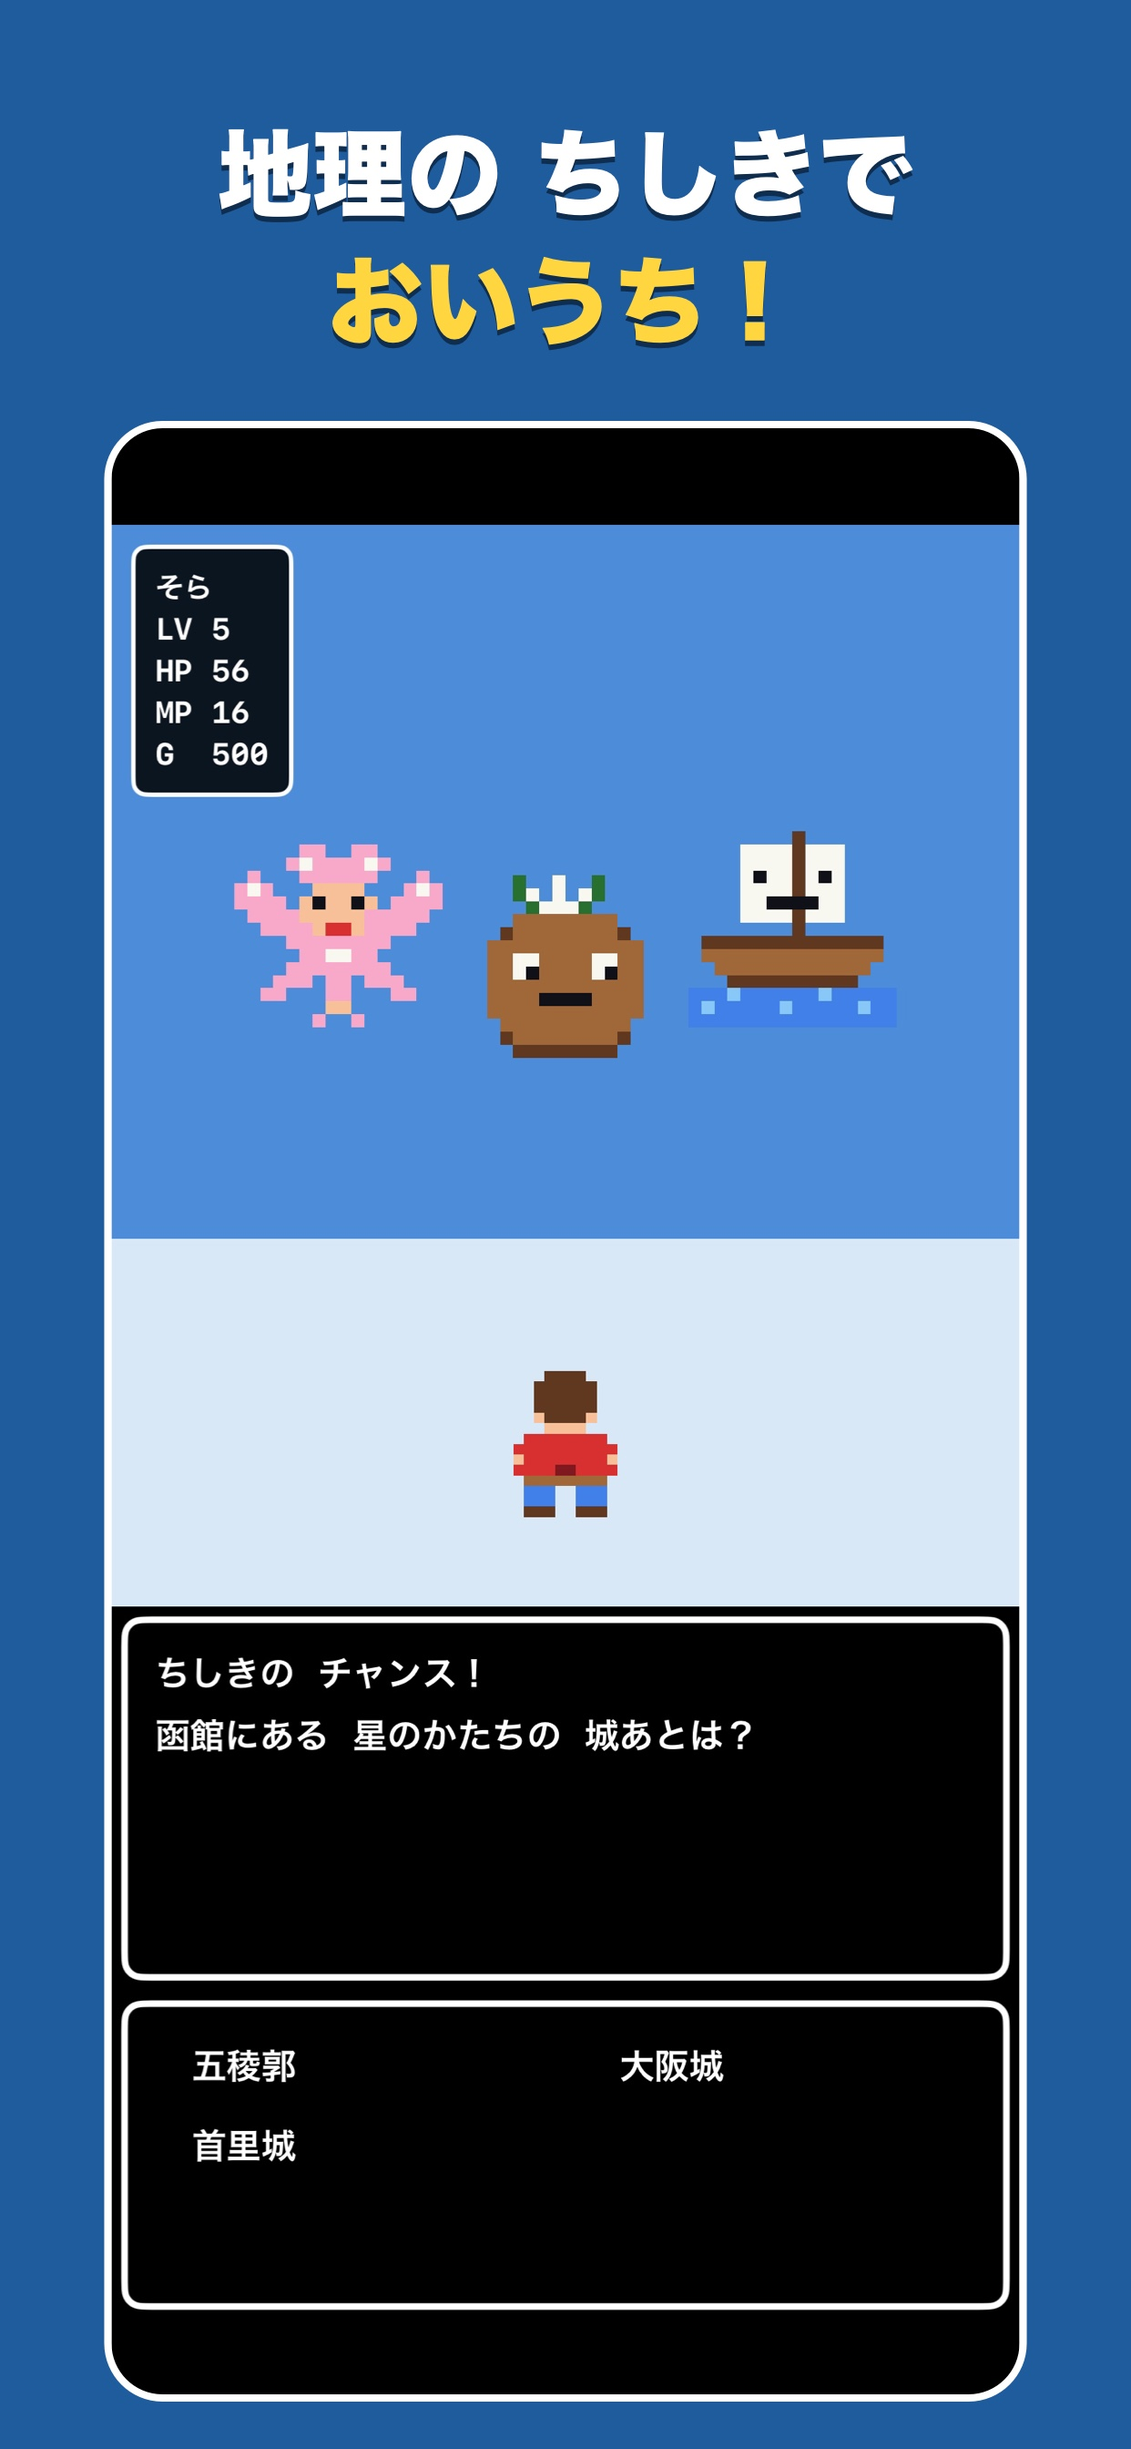
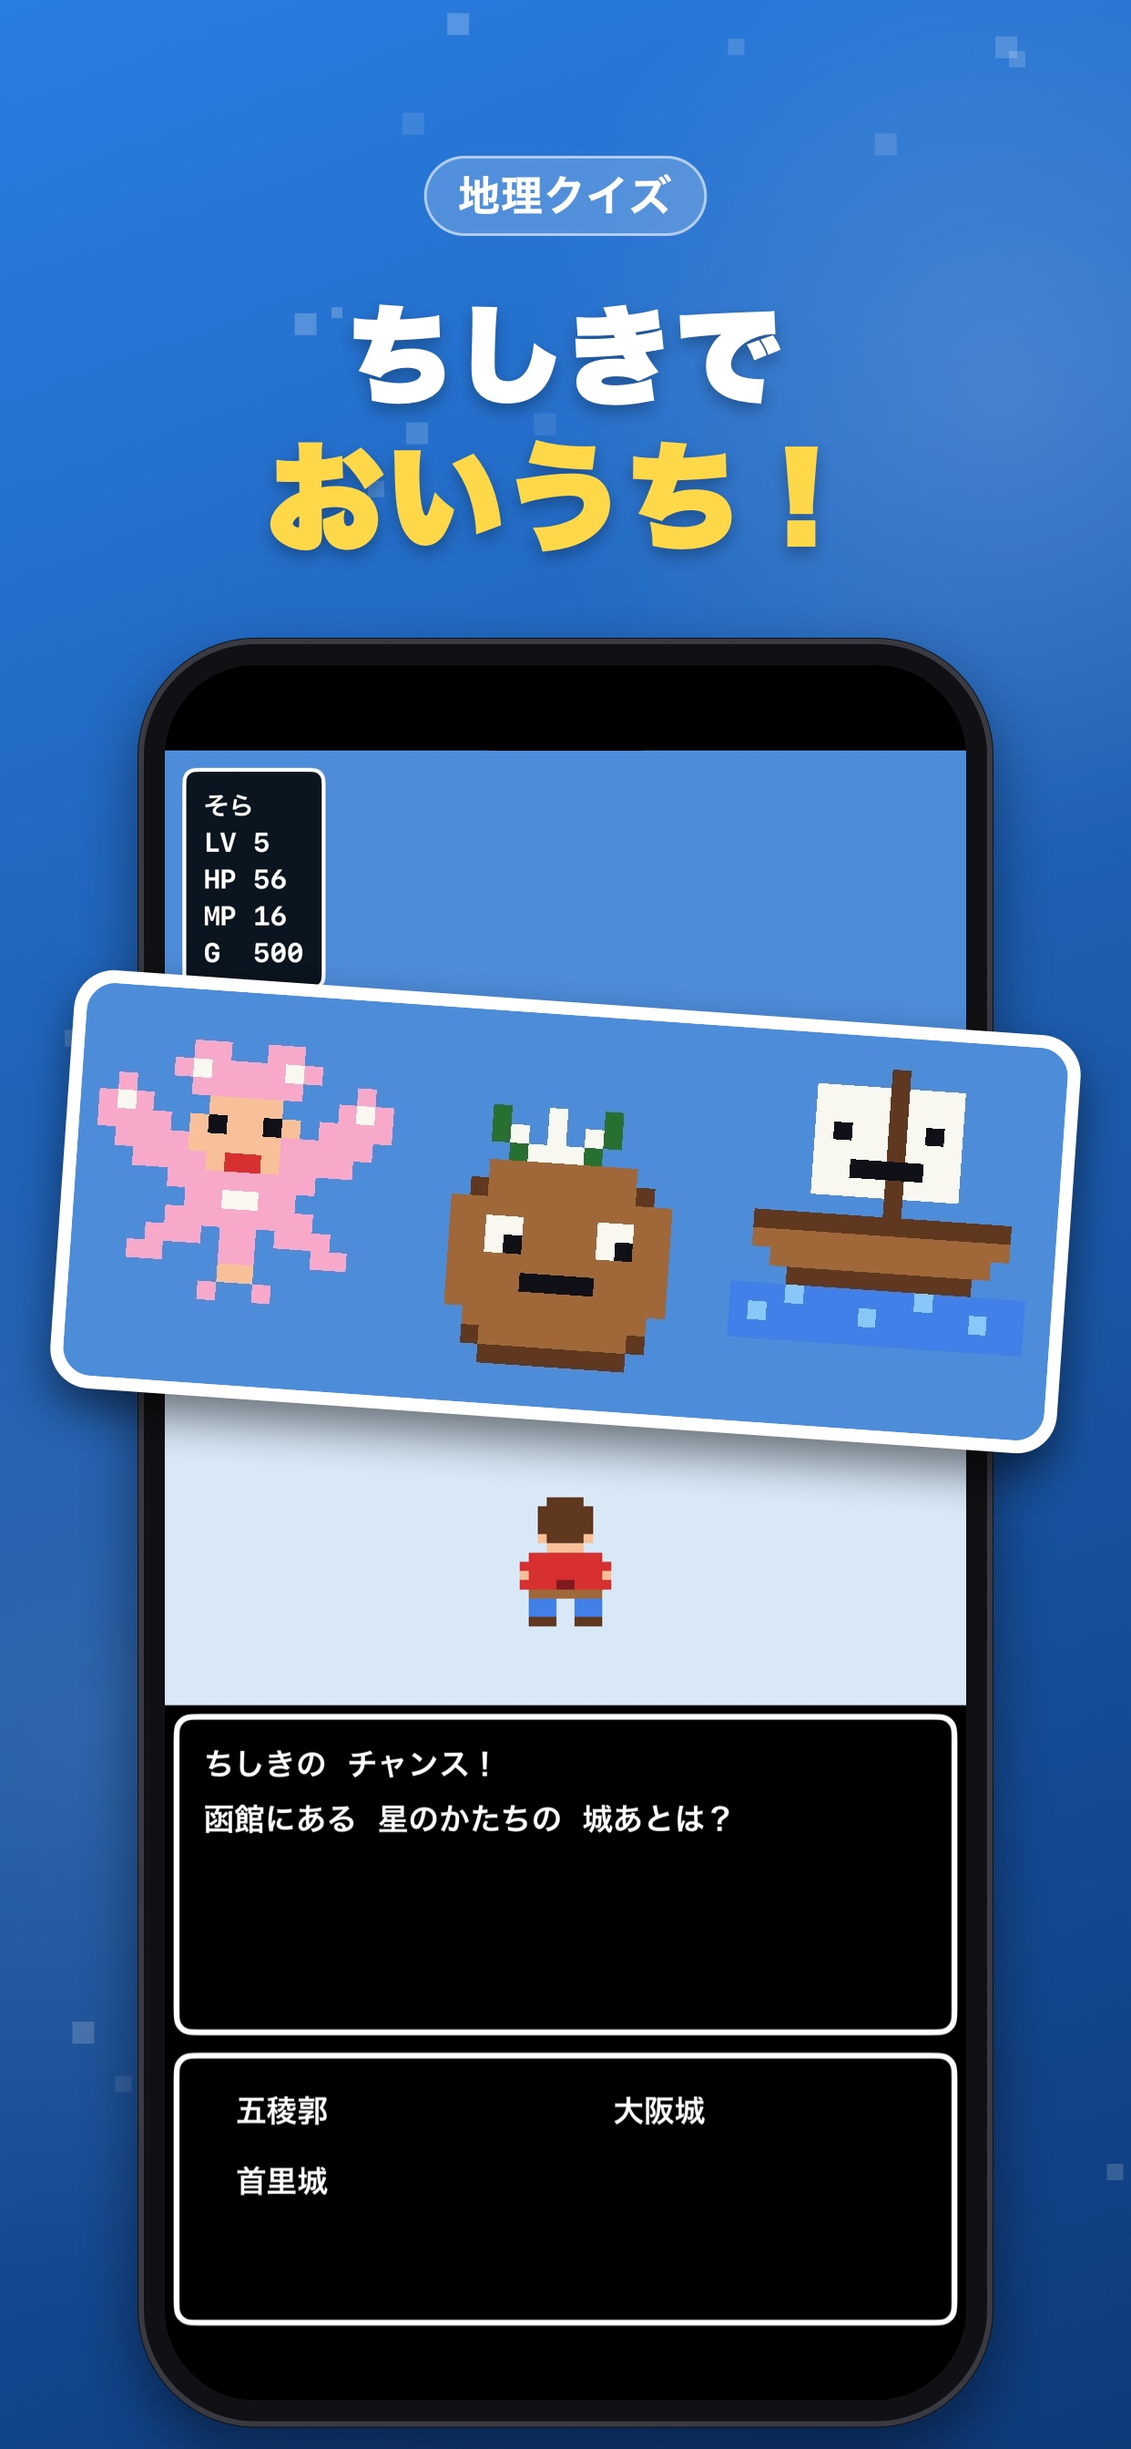
GeoHero: ストアの スクショを 今風に 作りなおし、1.2 を 審査に 出した
グラデーションの 背景・iPhone の 枠・飛び出す カードで 見どころを 見せる。
listing.md に 1.2 の 新機能の 文と 提出日を 残す。

diff --git a/Apps/GeoHero/Tools/caption_screenshots.swift b/Apps/GeoHero/Tools/caption_screenshots.swift
@@ -1,9 +1,10 @@
-// ストア用の 見出し入り スクリーンショットを作る（6.5インチ・1242x2688・透過なしJPEG）。
+// ストア用の スクリーンショットを 作る（6.5インチ・1242x2688・透過なしJPEG）。
 //
 //     swift Tools/caption_screenshots.swift
 //
-// `Tools/make_screenshots.sh` で撮った `Docs/Store/screenshots/65_*.jpg` を 少し小さくして、
-// 上に 大きな 見出しを 入れる。できたものは `Docs/Store/screenshots_captioned/`。
+// `Tools/make_screenshots.sh` で撮った `Docs/Store/screenshots/65_*.jpg` を iPhone の 枠に 入れ、
+// グラデーションの 背景・ラベル・大きな 見出しを つける。見どころ（ボスの ドット絵・クイズの 枠など）は
+// 拡大した カードにして 枠から 飛び出させる。できたものは `Docs/Store/screenshots_captioned/`。
 import AppKit
 
 // Apps/GeoHero で 実行する。
@@ -12,68 +13,226 @@ let input = root.appendingPathComponent("Docs/Store/screenshots")
 let output = root.appendingPathComponent("Docs/Store/screenshots_captioned")
 try? FileManager.default.createDirectory(at: output, withIntermediateDirectories: true)
 
+let width: CGFloat = 1242, height: CGFloat = 2688
+
+func rgb(_ hex: UInt32) -> NSColor {
+    NSColor(red: CGFloat(hex >> 16 & 0xFF) / 255, green: CGFloat(hex >> 8 & 0xFF) / 255,
+            blue: CGFloat(hex & 0xFF) / 255, alpha: 1)
+}
+
+/// 飛び出す カード。`crop` は 元の スクショ（1242x2688・上が 0）の 切り抜き。
+/// `center` は できあがりの 画像での 中心（上が 0）、`cardWidth` は 横幅、`tilt` は 傾き（度）。
+struct Popout {
+    let crop: NSRect
+    let center: NSPoint
+    let cardWidth: CGFloat
+    let tilt: CGFloat
+}
+
+struct Shot {
+    let file: String
+    let name: String
+    let tag: String
+    let title: String
+    let accent: String
+    let top: NSColor
+    let bottom: NSColor
+    let popout: Popout
+    /// iPhone の 枠を 左右どちらに 寄せるか（カードの 反対がわ）。
+    let deviceShift: CGFloat
+}
+
 /// 並べる順と 見出し。App Store の インストール画面には 最初の3枚が出る。
-let shots: [(file: String, title: String, sub: String, color: NSColor)] = [
-    ("65_1_title", "北海道を 旅する", "ドット絵の 地理RPG", NSColor(red: 0.10, green: 0.12, blue: 0.30, alpha: 1)),
-    ("65_4_quiz", "地理の ちしきで", "おいうち！", NSColor(red: 0.12, green: 0.36, blue: 0.62, alpha: 1)),
-    ("65_2_field", "3つの 地方を", "飛行機で めぐる", NSColor(red: 0.16, green: 0.45, blue: 0.24, alpha: 1)),
-    ("65_3_town", "9つの 街を", "歩いて 話して", NSColor(red: 0.55, green: 0.38, blue: 0.16, alpha: 1)),
-    ("65_5_boss", "ご当地の ぬしに", "いどもう", NSColor(red: 0.42, green: 0.10, blue: 0.14, alpha: 1)),
-    ("65_6_shop", "名産の 道具と 装備で", "強くなる", NSColor(red: 0.30, green: 0.18, blue: 0.45, alpha: 1)),
+let shots: [Shot] = [
+    Shot(file: "65_1_title", name: "title", tag: "ドット絵 RPG", title: "北海道を", accent: "冒険しよう",
+         top: rgb(0x1B1F4B), bottom: rgb(0x4A2C7A),
+         popout: Popout(crop: NSRect(x: 250, y: 1030, width: 790, height: 400),
+                        center: NSPoint(x: 700, y: 1860), cardWidth: 820, tilt: -5),
+         deviceShift: -90),
+    Shot(file: "65_4_quiz", name: "quiz", tag: "地理クイズ", title: "ちしきで", accent: "おいうち！",
+         top: rgb(0x2A7DE1), bottom: rgb(0x0E3A7A),
+         popout: Popout(crop: NSRect(x: 150, y: 520, width: 950, height: 380),
+                        center: NSPoint(x: 621, y: 1330), cardWidth: 1080, tilt: -4),
+         deviceShift: 0),
+    Shot(file: "65_2_field", name: "field", tag: "3つの 地方", title: "北海道を", accent: "飛行機で めぐる",
+         top: rgb(0x35B566), bottom: rgb(0x0F5C35),
+         popout: Popout(crop: NSRect(x: 180, y: 860, width: 600, height: 520),
+                        center: NSPoint(x: 900, y: 1500), cardWidth: 540, tilt: 5),
+         deviceShift: -90),
+    Shot(file: "65_3_town", name: "town", tag: "9つの 街", title: "名所と 人に", accent: "出会う 旅",
+         top: rgb(0xF5A04A), bottom: rgb(0xB24A22),
+         popout: Popout(crop: NSRect(x: 230, y: 520, width: 700, height: 640),
+                        center: NSPoint(x: 330, y: 1480), cardWidth: 540, tilt: -5),
+         deviceShift: 90),
+    Shot(file: "65_5_boss", name: "boss", tag: "ボスバトル", title: "ご当地の ぬしと", accent: "白熱バトル",
+         top: rgb(0xD0343F), bottom: rgb(0x3E0A18),
+         popout: Popout(crop: NSRect(x: 380, y: 400, width: 560, height: 580),
+                        center: NSPoint(x: 900, y: 1330), cardWidth: 520, tilt: 6),
+         deviceShift: -90),
+    Shot(file: "65_6_shop", name: "shop", tag: "名産アイテム", title: "名産の 道具で", accent: "強くなる",
+         top: rgb(0x8A55D6), bottom: rgb(0x341A66),
+         popout: Popout(crop: NSRect(x: 19, y: 752, width: 1210, height: 418),
+                        center: NSPoint(x: 621, y: 2080), cardWidth: 1100, tilt: -3),
+         deviceShift: 0),
 ]
 
-let width = 1242, height = 2688
+// MARK: - 描く部品（AppKit は 下が 0。上から はかる 値は `flip` で なおす）
 
-func draw(_ text: String, size: CGFloat, color: NSColor, centerY: CGFloat) {
-    let font = NSFont(name: "HiraginoSans-W8", size: size) ?? .boldSystemFont(ofSize: size)
+func flip(_ y: CGFloat) -> CGFloat { height - y }
+
+func text(_ string: String, size: CGFloat, weight: String = "W8", color: NSColor) -> NSAttributedString {
+    let font = NSFont(name: "HiraginoSans-\(weight)", size: size) ?? .boldSystemFont(ofSize: size)
     let style = NSMutableParagraphStyle()
     style.alignment = .center
-    let shadow = NSShadow()
-    shadow.shadowColor = NSColor.black.withAlphaComponent(0.5)
-    shadow.shadowOffset = NSSize(width: 0, height: -6)
-    shadow.shadowBlurRadius = 0
-    let attributes: [NSAttributedString.Key: Any] = [
-        .font: font, .foregroundColor: color, .paragraphStyle: style, .shadow: shadow,
-    ]
-    let string = NSAttributedString(string: text, attributes: attributes)
-    let bounds = string.boundingRect(with: NSSize(width: CGFloat(width) - 80, height: 400), options: .usesLineFragmentOrigin)
-    string.draw(in: NSRect(x: 40, y: centerY - bounds.height / 2, width: CGFloat(width) - 80, height: bounds.height))
+    return NSAttributedString(string: string, attributes: [
+        .font: font, .foregroundColor: color, .paragraphStyle: style, .kern: size * 0.02,
+    ])
+}
+
+/// 上から `centerY` の 位置に 1行 書く。
+func drawLine(_ string: NSAttributedString, centerY: CGFloat, shadow: Bool = true) {
+    NSGraphicsContext.saveGraphicsState()
+    if shadow {
+        let s = NSShadow()
+        s.shadowColor = NSColor.black.withAlphaComponent(0.28)
+        s.shadowOffset = NSSize(width: 0, height: -8)
+        s.shadowBlurRadius = 18
+        s.set()
+    }
+    let size = string.size()
+    string.draw(at: NSPoint(x: (width - size.width) / 2, y: flip(centerY) - size.height / 2))
+    NSGraphicsContext.restoreGraphicsState()
+}
+
+/// 背景：ななめの グラデーション・ぼんやり 光る 丸・ドット絵ふうの 小さな 四角。
+func drawBackground(_ shot: Shot, seed: Int) {
+    NSGradient(starting: shot.top, ending: shot.bottom)!
+        .draw(in: NSRect(x: 0, y: 0, width: width, height: height), angle: -70)
+    for (x, y, r, a) in [(1100.0, 420.0, 520.0, 0.16), (80.0, 1900.0, 620.0, 0.10)] {
+        let glow = NSGradient(colors: [NSColor.white.withAlphaComponent(a), NSColor.white.withAlphaComponent(0)])!
+        glow.draw(fromCenter: NSPoint(x: x, y: flip(y)), radius: 0, toCenter: NSPoint(x: x, y: flip(y)), radius: r, options: [])
+    }
+    // 毎回 同じ 並びに なるよう、決まった 式で 散らす。
+    var state = UInt64(seed * 7919 + 17)
+    func next() -> CGFloat {
+        state = state &* 6364136223846793005 &+ 1442695040888963407
+        return CGFloat(state >> 33) / CGFloat(UInt32.max >> 1)
+    }
+    for _ in 0..<26 {
+        let size = [12, 18, 24][Int(next() * 3) % 3]
+        let x = next() * width, y = next() * height
+        NSColor.white.withAlphaComponent(0.08 + next() * 0.14).setFill()
+        NSRect(x: x, y: y, width: CGFloat(size), height: CGFloat(size)).fill()
+    }
+}
+
+/// 上の ラベル（まるい 札）と 2行の 見出し。
+func drawHeadline(_ shot: Shot) {
+    let tag = text(shot.tag, size: 46, weight: "W6", color: .white)
+    let tagSize = tag.size()
+    let pill = NSRect(x: (width - tagSize.width) / 2 - 38, y: flip(215) - 44, width: tagSize.width + 76, height: 88)
+    NSColor.white.withAlphaComponent(0.20).setFill()
+    NSBezierPath(roundedRect: pill, xRadius: 44, yRadius: 44).fill()
+    NSColor.white.withAlphaComponent(0.55).setStroke()
+    let border = NSBezierPath(roundedRect: pill.insetBy(dx: 1.5, dy: 1.5), xRadius: 43, yRadius: 43)
+    border.lineWidth = 3
+    border.stroke()
+    tag.draw(at: NSPoint(x: pill.midX - tagSize.width / 2, y: pill.midY - tagSize.height / 2))
+
+    drawLine(text(shot.title, size: 118, weight: "W9", color: .white), centerY: 390)
+    drawLine(text(shot.accent, size: 128, weight: "W9", color: rgb(0xFFD84A)), centerY: 545)
+}
+
+/// iPhone の 枠に スクショを 入れる。下は 画像の 外へ はみ出す。
+func drawDevice(_ screenshot: NSImage, shift: CGFloat) {
+    let screenWidth: CGFloat = 880
+    let screenHeight = screenWidth * 2688 / 1242
+    let bezel: CGFloat = 30
+    let frame = NSRect(x: (width - screenWidth) / 2 - bezel + shift, y: flip(700) - screenHeight - bezel * 2,
+                       width: screenWidth + bezel * 2, height: screenHeight + bezel * 2)
+    // 影
+    NSGraphicsContext.saveGraphicsState()
+    let s = NSShadow()
+    s.shadowColor = NSColor.black.withAlphaComponent(0.45)
+    s.shadowOffset = NSSize(width: 0, height: -30)
+    s.shadowBlurRadius = 70
+    s.set()
+    rgb(0x111114).setFill()
+    NSBezierPath(roundedRect: frame, xRadius: 130, yRadius: 130).fill()
+    NSGraphicsContext.restoreGraphicsState()
+    // ふちの 光
+    rgb(0x3A3A42).setStroke()
+    let rim = NSBezierPath(roundedRect: frame.insetBy(dx: 4, dy: 4), xRadius: 126, yRadius: 126)
+    rim.lineWidth = 6
+    rim.stroke()
+    // 画面
+    let screen = frame.insetBy(dx: bezel, dy: bezel)
+    NSGraphicsContext.saveGraphicsState()
+    NSBezierPath(roundedRect: screen, xRadius: 100, yRadius: 100).addClip()
+    NSGraphicsContext.current?.imageInterpolation = .high
+    screenshot.draw(in: screen)
+    NSGraphicsContext.restoreGraphicsState()
+    // ダイナミックアイランド
+    let island = NSRect(x: screen.midX - 110, y: screen.maxY - 30 - 64, width: 220, height: 64)
+    NSColor.black.setFill()
+    NSBezierPath(roundedRect: island, xRadius: 32, yRadius: 32).fill()
+}
+
+/// 見どころを 拡大して、白い ふちの カードで 飛び出させる。ドット絵が にじまないよう 拡大は 最近傍。
+func drawPopout(_ popout: Popout, from bitmap: NSBitmapImageRep) {
+    let crop = popout.crop
+    guard let cg = bitmap.cgImage?.cropping(to: CGRect(x: crop.minX, y: crop.minY, width: crop.width, height: crop.height))
+    else { return }
+    let image = NSImage(cgImage: cg, size: crop.size)
+    let cardHeight = popout.cardWidth * crop.height / crop.width
+    let card = NSRect(x: -popout.cardWidth / 2, y: -cardHeight / 2, width: popout.cardWidth, height: cardHeight)
+
+    NSGraphicsContext.saveGraphicsState()
+    let transform = NSAffineTransform()
+    transform.translateX(by: popout.center.x, yBy: flip(popout.center.y))
+    transform.rotate(byDegrees: popout.tilt)
+    transform.concat()
+
+    let outer = card.insetBy(dx: -14, dy: -14)
+    NSGraphicsContext.saveGraphicsState()
+    let s = NSShadow()
+    s.shadowColor = NSColor.black.withAlphaComponent(0.5)
+    s.shadowOffset = NSSize(width: 0, height: -24)
+    s.shadowBlurRadius = 50
+    s.set()
+    NSColor.white.setFill()
+    NSBezierPath(roundedRect: outer, xRadius: 44, yRadius: 44).fill()
+    NSGraphicsContext.restoreGraphicsState()
+
+    NSGraphicsContext.saveGraphicsState()
+    NSBezierPath(roundedRect: card, xRadius: 32, yRadius: 32).addClip()
+    NSGraphicsContext.current?.imageInterpolation = .none
+    image.draw(in: card)
+    NSGraphicsContext.restoreGraphicsState()
+    NSGraphicsContext.restoreGraphicsState()
 }
 
 for (index, shot) in shots.enumerated() {
-    guard let screenshot = NSImage(contentsOf: input.appendingPathComponent(shot.file + ".jpg")) else {
+    let url = input.appendingPathComponent(shot.file + ".jpg")
+    guard let screenshot = NSImage(contentsOf: url),
+          let source = NSBitmapImageRep(data: try Data(contentsOf: url)) else {
         print("みつからない: \(shot.file)"); continue
     }
     guard let bitmap = NSBitmapImageRep(
-        bitmapDataPlanes: nil, pixelsWide: width, pixelsHigh: height, bitsPerSample: 8, samplesPerPixel: 4,
+        bitmapDataPlanes: nil, pixelsWide: Int(width), pixelsHigh: Int(height), bitsPerSample: 8, samplesPerPixel: 4,
         // 描くには アルファつきが いる（JPEG に するときに 消える）。
         hasAlpha: true, isPlanar: false, colorSpaceName: .deviceRGB, bytesPerRow: 0, bitsPerPixel: 0
     ) else { continue }
     NSGraphicsContext.saveGraphicsState()
     NSGraphicsContext.current = NSGraphicsContext(bitmapImageRep: bitmap)
-    shot.color.setFill()
-    NSRect(x: 0, y: 0, width: width, height: height).fill()
-
-    // 見出し（上）。AppKit は 下が 0 なので 上から はかる。
-    draw(shot.title, size: 104, color: .white, centerY: CGFloat(height) - 190)
-    draw(shot.sub, size: 104, color: NSColor(red: 1, green: 0.84, blue: 0.25, alpha: 1), centerY: CGFloat(height) - 330)
-
-    // スクリーンショット（下）。角を まるめ、白い ふちを つける。
-    let shotHeight = CGFloat(height) - 470 - 60
-    let shotWidth = shotHeight * 1242 / 2688
-    let frame = NSRect(x: (CGFloat(width) - shotWidth) / 2, y: 60, width: shotWidth, height: shotHeight)
-    let rounded = NSBezierPath(roundedRect: frame, xRadius: 56, yRadius: 56)
-    NSColor.white.setStroke()
-    rounded.lineWidth = 16
-    rounded.stroke()
-    NSGraphicsContext.saveGraphicsState()
-    rounded.addClip()
-    screenshot.draw(in: frame)
-    NSGraphicsContext.restoreGraphicsState()
+    drawBackground(shot, seed: index)
+    drawHeadline(shot)
+    drawDevice(screenshot, shift: shot.deviceShift)
+    drawPopout(shot.popout, from: source)
     NSGraphicsContext.restoreGraphicsState()
 
-    let name = String(format: "65_%d_%@.jpg", index + 1, String(shot.file.split(separator: "_").last!))
-    let data = bitmap.representation(using: .jpeg, properties: [.compressionFactor: 0.9])!
+    let name = String(format: "65_%d_%@.jpg", index + 1, shot.name)
+    let data = bitmap.representation(using: .jpeg, properties: [.compressionFactor: 0.92])!
     try data.write(to: output.appendingPathComponent(name))
     print("  Docs/Store/screenshots_captioned/\(name)")
 }

diff --git a/Apps/GeoHero/Docs/Store/listing.md b/Apps/GeoHero/Docs/Store/listing.md
@@ -20,7 +20,7 @@
 名前は30文字まで。「地理の勇者 RPG」は9文字なので余裕がある。
 同名のアプリがあると登録できないので、App Store Connect で先に名前を押さえる。
 
-## 1.2 で 変えるもの（1.1 の 承認後に 提出）
+## 1.2 で 変えるもの（2026-09-29 に 提出ずみ）
 
 - **副題**: 遊んで覚える 北海道の地理RPG（アプリ情報で 保存ずみ・1.2 の 公開で 反映）
 - **カテゴリ**: ゲーム（ロールプレイング・トリビア）／ 2つ目 教育（同上）
@@ -28,10 +28,16 @@
 - **このバージョンの新機能**:
 
 ```
+・たたかいが 手ごわく なりました。敵が 呪文や 回復を つかい、ボスは つよさを 上げてきます
+・「ちしきの チャンス」に 正解すると、ボスが 上げた つよさを もとに もどせます
+・地方ごとの 曲を ふやしました（全15曲）
+・宝箱から 北海道の 名産や めずらしい 道具が 出るように
 ・冒険の きろくを 画像で シェアできるように（エンディング・つよさ画面）
 ・アプリ内イベント「北海道 めいしょスタンプラリー」に 対応
 ・こまかな 不具合を 直しました
 ```
+
+2026-09-29 に ビルド8・今風の スクショ（グラデーション背景＋iPhone の 枠＋飛び出す カード）で 審査へ 提出した。
 
 - **アプリ内イベント**: 「北海道 めいしょスタンプラリー」（10/3〜10/31、下書きずみ）。
   1.2 公開後に ディープリンク `geohero://stamp-rally` を 入れて 審査へ。画像は `Docs/Store/event/`（`Tools/make_event_art.swift`）。
